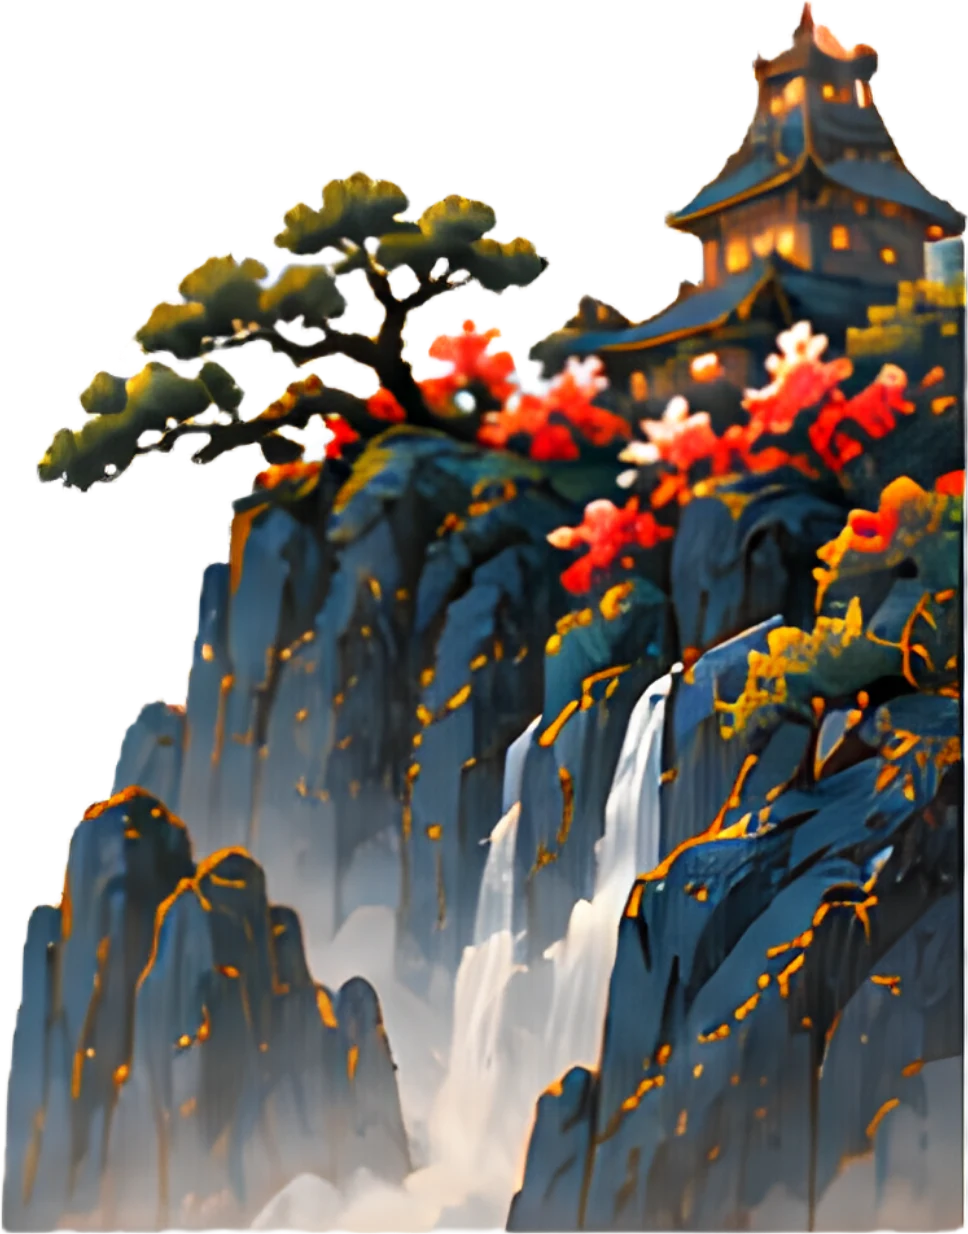
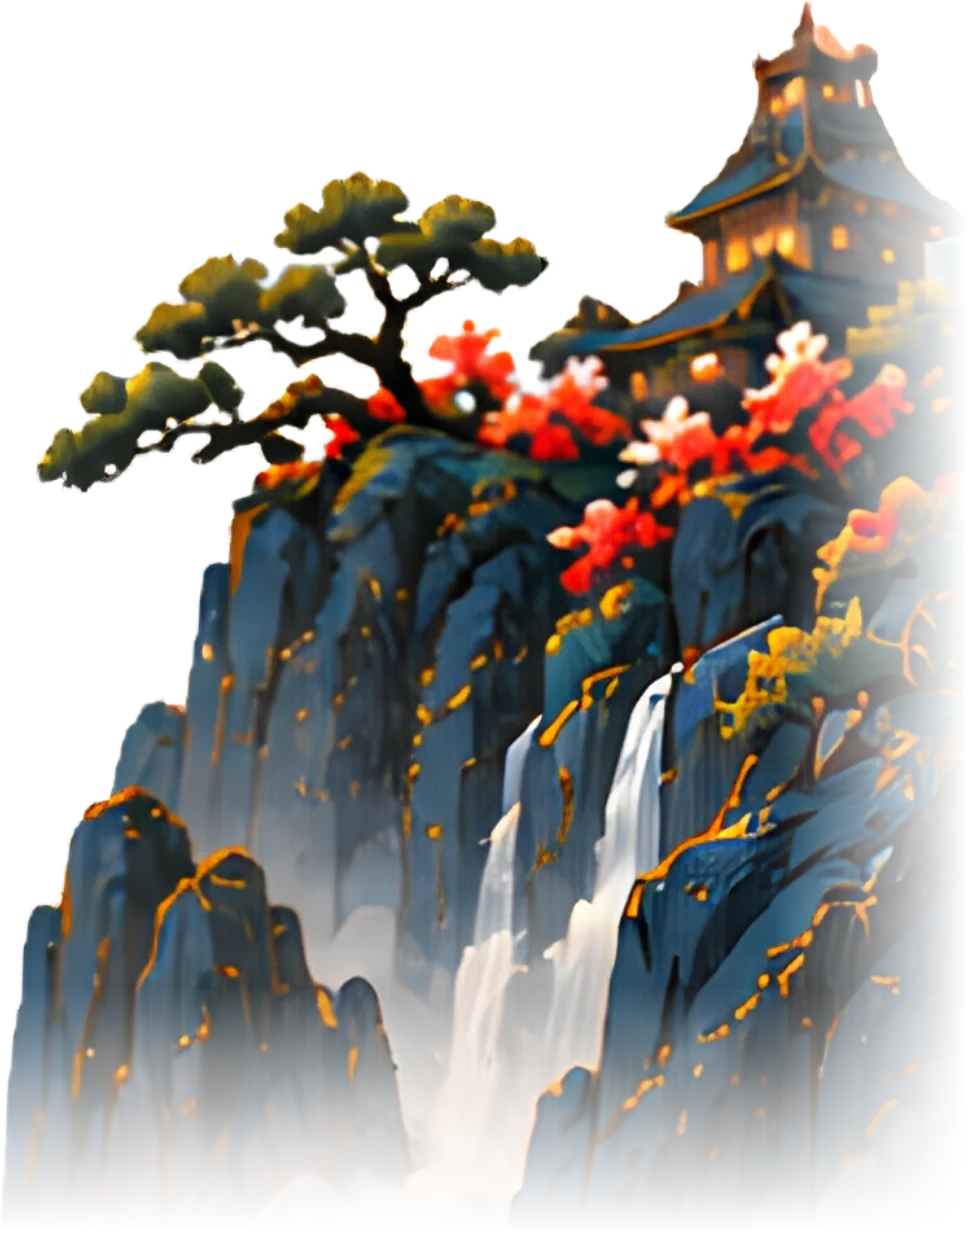
wedding-35: perfect layout alignment from individual assets with sequential entrance animations

Changed region(s): [[0.0, 0.0, 1.0, 1.0]]

diff --git a/resources/views/templates/wedding/wedding-35.blade.php b/resources/views/templates/wedding/wedding-35.blade.php
@@ -284,7 +284,7 @@
             animation: petalsDrift 7s ease-in-out infinite;
         }
 
-        /* Custom scrollbar */
+/* Custom scrollbar */
         ::-webkit-scrollbar {
             width: 5px;
         }
@@ -307,47 +307,145 @@
         <!-- ========================================== -->
         <section id="cover-screen" class="fixed inset-0 z-50 flex flex-col justify-between max-w-[460px] mx-auto bg-[#172635] transition-transform duration-1000 ease-in-out overflow-hidden shadow-2xl">
             <!-- Artwork scene (682:1024) composed from individual assets in wedding-new-2 -->
-            <div class="absolute top-0 left-1/2 -translate-x-1/2 h-full pointer-events-none select-none overflow-hidden" style="width:max(100%, 66.6dvh);background:radial-gradient(ellipse at 50% 30%,#2a3b55 0%,#1b2740 45%,#141d30 100%);">
+            <div id="w35-scene" class="absolute top-0 left-1/2 -translate-x-1/2 h-full pointer-events-none select-none overflow-hidden" style="width:max(100%, 66.6dvh);background:radial-gradient(ellipse at 50% 30%,#2a3b55 0%,#1b2740 45%,#141d30 100%);">
+                <!-- Distant night stars -->
                 <div class="absolute inset-0" style="background-image:radial-gradient(1px 1px at 12% 8%,#fff,transparent),radial-gradient(1px 1px at 30% 4%,#fff,transparent),radial-gradient(1.5px 1.5px at 58% 6%,#f5e3b0,transparent),radial-gradient(1px 1px at 72% 3%,#fff,transparent),radial-gradient(1px 1px at 88% 10%,#fff,transparent),radial-gradient(1.5px 1.5px at 94% 22%,#fff,transparent),radial-gradient(1px 1px at 8% 22%,#fff,transparent),radial-gradient(1px 1px at 46% 2%,#fff,transparent),radial-gradient(1px 1px at 82% 28%,#f5e3b0,transparent);"></div>
-                <img src="{{ $imgDir }}/layers/moon.webp" alt="" class="absolute max-w-none" style="left:14%;top:9.5%;width:72%;filter:drop-shadow(0 0 30px rgba(255,236,190,.45));"/>
-                <img src="{{ $imgDir }}/layers/cloud-b.webp" alt="" class="absolute max-w-none" style="left:2%;top:24%;width:40%;transform:scaleX(-1);opacity:.95;"/>
-                <img src="{{ $imgDir }}/layers/cloud-b.webp" alt="" class="absolute max-w-none" style="left:74%;top:13%;width:36%;"/>
-                <img src="{{ $imgDir }}/layers/cloud-a.webp" alt="" class="absolute max-w-none" style="left:72%;top:28%;width:36%;width:34%;"/>
-                <img src="{{ $imgDir }}/layers/mountains.webp" alt="" class="absolute max-w-none" style="left:-4%;top:50%;width:108%;-webkit-mask-image:radial-gradient(ellipse 50% 50% at 50% 50%,#000 60%,transparent 100%);mask-image:radial-gradient(ellipse 50% 50% at 50% 50%,#000 60%,transparent 100%);"/>
-                <img src="{{ $imgDir }}/layers/cliff-pagoda.webp" alt="" class="absolute max-w-none" style="left:16%;top:57%;width:20%;-webkit-mask-image:radial-gradient(ellipse 50% 50% at 50% 50%,#000 60%,transparent 100%);mask-image:radial-gradient(ellipse 50% 50% at 50% 50%,#000 60%,transparent 100%);"/>
-                <img src="{{ $imgDir }}/layers/pagoda.webp" alt="" class="absolute max-w-none" style="left:60%;top:40%;width:52%;-webkit-mask-image:linear-gradient(90deg,transparent 0%,#000 30%);mask-image:linear-gradient(90deg,transparent 0%,#000 30%);"/>
-                <img src="{{ $imgDir }}/layers/waterfall.webp" alt="" class="absolute max-w-none" style="left:46%;top:62%;width:50%;-webkit-mask-image:radial-gradient(ellipse 50% 50% at 50% 50%,#000 60%,transparent 100%);mask-image:radial-gradient(ellipse 50% 50% at 50% 50%,#000 60%,transparent 100%);"/>
-                <img src="{{ $imgDir }}/layers/rocks.webp" alt="" class="absolute max-w-none" style="left:54%;top:70%;width:50%;"/>
-                <img src="{{ $imgDir }}/layers/pine.webp" alt="" class="absolute max-w-none" style="left:26%;top:66%;width:32%;"/>
-                <img src="{{ $imgDir }}/layers/waves.webp" alt="" class="absolute max-w-none" style="left:40%;top:74%;width:70%;opacity:.95;"/>
-                <img src="{{ $imgDir }}/layers/rail-plain.webp" alt="" class="absolute max-w-none" style="left:30%;top:70%;width:48%;transform:rotate(6deg);"/>
-                <img src="{{ $imgDir }}/layers/rail-flower-r.webp" alt="" class="absolute max-w-none" style="left:58%;top:76%;width:46%;transform:rotate(6deg);"/>
-                <img src="{{ $imgDir }}/layers/rail-flower-l.webp" alt="" class="absolute max-w-none" style="left:14%;top:68%;width:44%;transform:rotate(6deg);"/>
-                <img src="{{ $imgDir }}/layers/cloud-a.webp" alt="" class="absolute max-w-none" style="left:-10%;top:-1%;width:52%;"/>
-                <img src="{{ $imgDir }}/layers/blossom-top.webp" alt="" class="absolute max-w-none" style="left:-8%;top:0%;width:40%;"/>
-                <img src="{{ $imgDir }}/layers/flower-branch.webp" alt="" class="absolute max-w-none" style="left:-16%;top:34%;width:32%;transform:rotate(-15deg);"/>
-                <img src="{{ $imgDir }}/layers/flower-bush.webp" alt="" class="absolute max-w-none" style="left:-12%;top:64%;width:50%;"/>
-                <img src="{{ $imgDir }}/layers/flower-branch.webp" alt="" class="absolute max-w-none" style="left:-12%;top:70%;width:40%;"/>
-                <img src="{{ $imgDir }}/layers/waves.webp" alt="" class="absolute max-w-none" style="left:-8%;top:85%;width:116%;"/>
-                <img src="{{ $imgDir }}/layers/pendant.webp" alt="" class="absolute max-w-none" style="left:44.5%;top:-1.5%;width:11%;transform-origin:50% 0;animation:pendantSway 5s ease-in-out infinite;"/>
-                <img src="{{ $imgDir }}/layers/crane.webp" alt="" class="absolute max-w-none" style="left:60%;top:3%;width:36%;animation:craneGlide 6s ease-in-out infinite;"/>
-                <img src="{{ $imgDir }}/layers/petals.webp" alt="" class="absolute max-w-none" style="left:10%;top:30%;width:16%;animation:petalsDrift 7s ease-in-out infinite;"/>
-                <img src="{{ $imgDir }}/layers/petals.webp" alt="" class="absolute max-w-none" style="left:62%;top:52%;width:14%;transform:rotate(30deg);opacity:.85;"/>
-                <div class="absolute left-0 right-0 text-center" style="top:22.6%;color:#8B6327;">
-                    <p class="font-serif" style="font-size:2.1dvh;letter-spacing:.12em;color:#3a3a3a;">THE WEDDING OF</p>
-                    <h1 class="font-serif" style="font-size:6.2dvh;line-height:1;margin-top:1.6dvh;font-weight:500;letter-spacing:.02em;">{{ strtoupper($couple['bride']) }}</h1>
-                    <div class="flex items-center justify-center" style="gap:2dvh;margin:.3dvh 0;">
-                        <span style="height:1px;width:13dvh;background:#B8945A;"></span>
-                        <span class="font-serif" style="font-size:4.6dvh;line-height:1;">&amp;</span>
-                        <span style="height:1px;width:13dvh;background:#B8945A;"></span>
+
+                <!-- 1. Giant Luminous Full Moon -->
+                <div class="w35-in w35-zoom" style="animation-delay:0.15s">
+                    <img src="{{ $imgDir }}/layers/moon.webp" alt="Moon" class="absolute max-w-none" style="left:3.5%;top:5%;width:93%;filter:drop-shadow(0 0 35px rgba(255,236,190,.4));"/>
+                </div>
+
+                <!-- 2. Distant Misty Blue Mountains -->
+                <div class="w35-in w35-fade" style="animation-delay:0.4s">
+                    <img src="{{ $imgDir }}/layers/mountains.webp" alt="Mountains" class="absolute max-w-none" style="left:-2%;top:45%;width:104%;"/>
+                </div>
+
+                <!-- 3. Left Midground Cliff & Waterfall -->
+                <div class="w35-in w35-fade" style="animation-delay:0.65s">
+                    <img src="{{ $imgDir }}/layers/cliff-pagoda.webp" alt="Cliff" class="absolute max-w-none" style="left:18%;top:54%;width:25%;"/>
+                </div>
+
+                <!-- 4. Waterfall in Gorge -->
+                <div class="w35-in w35-up" style="animation-delay:0.9s">
+                    <img src="{{ $imgDir }}/layers/waterfall.webp" alt="Waterfall" class="absolute max-w-none" style="left:42%;top:59%;width:48%;"/>
+                </div>
+
+                <!-- 5. Pagoda Temple on Mountain Cliff (Right) -->
+                <div class="w35-in w35-right" style="animation-delay:1.15s">
+                    <img src="{{ $imgDir }}/layers/pagoda.webp" alt="Pagoda" class="absolute max-w-none" style="left:50%;top:34%;width:52%;"/>
+                </div>
+
+                <!-- 6. Pine Tree Branch -->
+                <div class="w35-in w35-up" style="animation-delay:1.4s">
+                    <img src="{{ $imgDir }}/layers/pine.webp" alt="Pine" class="absolute max-w-none" style="left:28%;top:62%;width:42%;"/>
+                </div>
+
+                <!-- 7. Rocks on Right -->
+                <div class="w35-in w35-up" style="animation-delay:1.65s">
+                    <img src="{{ $imgDir }}/layers/rocks.webp" alt="Rocks" class="absolute max-w-none" style="left:54%;top:69%;width:48%;"/>
+                </div>
+
+                <!-- 8. Bridge Railing Segments -->
+                <div class="w35-in w35-up" style="animation-delay:1.9s">
+                    <img src="{{ $imgDir }}/layers/rail-flower-l.webp" alt="Bridge Left" class="absolute max-w-none" style="left:20%;top:68%;width:44%;transform:rotate(9deg);"/>
+                </div>
+                <div class="w35-in w35-up" style="animation-delay:2.05s">
+                    <img src="{{ $imgDir }}/layers/rail-plain.webp" alt="Bridge Mid" class="absolute max-w-none" style="left:44%;top:76%;width:40%;transform:rotate(9deg);"/>
+                </div>
+                <div class="w35-in w35-up" style="animation-delay:2.2s">
+                    <img src="{{ $imgDir }}/layers/rail-flower-r.webp" alt="Bridge Right" class="absolute max-w-none" style="left:64%;top:83%;width:40%;transform:rotate(9deg);"/>
+                </div>
+
+                <!-- 9. Golden Clouds Flanking Moon -->
+                <div class="w35-in w35-left" style="animation-delay:2.4s">
+                    <img src="{{ $imgDir }}/layers/cloud-b.webp" alt="Cloud" class="absolute max-w-none" style="left:-6%;top:26%;width:40%;transform:scaleX(-1);"/>
+                </div>
+                <div class="w35-in w35-right" style="animation-delay:2.55s">
+                    <img src="{{ $imgDir }}/layers/cloud-b.webp" alt="Cloud" class="absolute max-w-none" style="left:72%;top:12%;width:32%;"/>
+                </div>
+                <div class="w35-in w35-right" style="animation-delay:2.7s">
+                    <img src="{{ $imgDir }}/layers/cloud-a.webp" alt="Cloud" class="absolute max-w-none" style="left:76%;top:28%;width:28%;"/>
+                </div>
+                <div class="w35-in w35-left" style="animation-delay:2.85s">
+                    <img src="{{ $imgDir }}/layers/cloud-a.webp" alt="Cloud" class="absolute max-w-none" style="left:-4%;top:-1%;width:48%;"/>
+                </div>
+
+                <!-- 10. Cascading Cherry Blossoms (Top & Bottom Left) -->
+                <div class="w35-in w35-left" style="animation-delay:3.0s">
+                    <img src="{{ $imgDir }}/layers/blossom-top.webp" alt="Blossoms Top" class="absolute max-w-none" style="left:-6%;top:-1%;width:44%;"/>
+                </div>
+                <div class="w35-in w35-left" style="animation-delay:3.15s">
+                    <img src="{{ $imgDir }}/layers/flower-branch.webp" alt="Blossoms Mid" class="absolute max-w-none" style="left:-12%;top:24%;width:38%;transform:rotate(-15deg);"/>
+                </div>
+                <div class="w35-in w35-left" style="animation-delay:3.3s">
+                    <img src="{{ $imgDir }}/layers/flower-bush.webp" alt="Flowers Bottom" class="absolute max-w-none" style="left:-12%;top:58%;width:54%;"/>
+                </div>
+                <div class="w35-in w35-left" style="animation-delay:3.45s">
+                    <img src="{{ $imgDir }}/layers/flower-branch.webp" alt="Flowers Lower" class="absolute max-w-none" style="left:-10%;top:68%;width:42%;"/>
+                </div>
+
+                <!-- 11. Swirling Blue Cloud Waves at Base -->
+                <div class="w35-in w35-up" style="animation-delay:3.6s">
+                    <img src="{{ $imgDir }}/layers/waves.webp" alt="Waves Left" class="absolute max-w-none" style="left:-10%;top:80%;width:80%;"/>
+                </div>
+                <div class="w35-in w35-up" style="animation-delay:3.75s">
+                    <img src="{{ $imgDir }}/layers/waves.webp" alt="Waves Mid" class="absolute max-w-none" style="left:18%;top:85%;width:75%;"/>
+                </div>
+                <div class="w35-in w35-up" style="animation-delay:3.9s">
+                    <img src="{{ $imgDir }}/layers/waves.webp" alt="Waves Right" class="absolute max-w-none" style="left:46%;top:83%;width:68%;transform:scaleX(-1);"/>
+                </div>
+
+                <!-- 12. Hanging Gold Pendant (Top Center) -->
+                <div class="w35-in w35-down" style="animation-delay:4.05s">
+                    <img src="{{ $imgDir }}/layers/pendant.webp" alt="Pendant" class="absolute max-w-none animate-pendant" style="left:43.5%;top:-1%;width:13%;transform-origin:50% 0;"/>
+                </div>
+
+                <!-- 13. Flying White Red-Crowned Crane (Top Right) -->
+                <div class="w35-in w35-crane-in" style="animation-delay:4.2s">
+                    <img src="{{ $imgDir }}/layers/crane.webp" alt="Crane" class="absolute max-w-none animate-crane" style="left:61%;top:4%;width:33%;"/>
+                </div>
+
+                <!-- 14. Drifting Flower Petals -->
+                <div class="w35-in w35-fade" style="animation-delay:4.35s">
+                    <img src="{{ $imgDir }}/layers/petals.webp" alt="Petals" class="absolute max-w-none animate-petals" style="left:10%;top:26%;width:18%;"/>
+                </div>
+                <div class="w35-in w35-fade" style="animation-delay:4.5s">
+                    <img src="{{ $imgDir }}/layers/petals.webp" alt="Petals" class="absolute max-w-none" style="left:62%;top:52%;width:14%;transform:rotate(30deg);opacity:.85;"/>
+                </div>
+
+                <!-- 15. Center Typography on the Moon -->
+                <div class="absolute left-0 right-0 text-center w35-in w35-text-in select-none" style="top:22.5%;color:#7D5827;animation-delay:4.7s">
+                    <p class="font-cinzel text-[10px] sm:text-[11px] font-semibold uppercase tracking-[0.35em] text-[#7D5827] drop-shadow-[0_1px_2px_rgba(255,255,255,0.7)] mb-2">
+                        THE WEDDING OF
+                    </p>
+
+                    <h1 class="font-cinzel text-3xl sm:text-4xl font-bold tracking-[0.16em] uppercase text-[#6B471C] drop-shadow-[0_2px_4px_rgba(255,255,255,0.7)] leading-none">
+                        {{ $couple['bride'] }}
+                    </h1>
+
+                    <div class="my-0.5 sm:my-1 flex items-center justify-center gap-3">
+                        <span class="h-[1px] w-8 sm:w-12 bg-[#8A6126]/40"></span>
+                        <span class="font-serif italic text-2xl sm:text-3xl font-normal text-[#8A6126] drop-shadow-[0_1px_2px_rgba(255,255,255,0.6)]">&amp;</span>
+                        <span class="h-[1px] w-8 sm:w-12 bg-[#8A6126]/40"></span>
                     </div>
-                    <h2 class="font-serif" style="font-size:6.2dvh;line-height:1;font-weight:500;letter-spacing:.02em;">{{ strtoupper($couple['groom']) }}</h2>
-                    <p class="font-serif" style="font-size:2.2dvh;letter-spacing:.12em;margin-top:2.6dvh;color:#3a3a3a;">21 . 12 . 2026</p>
+
+                    <h2 class="font-cinzel text-3xl sm:text-4xl font-bold tracking-[0.16em] uppercase text-[#6B471C] drop-shadow-[0_2px_4px_rgba(255,255,255,0.7)] leading-none">
+                        {{ $couple['groom'] }}
+                    </h2>
+
+                    <div class="mt-2.5 sm:mt-3.5 flex items-center justify-center gap-3">
+                        <span class="h-[1px] w-6 sm:w-8 bg-[#8A6126]/40"></span>
+                        <p class="font-cinzel text-[11px] sm:text-xs font-semibold tracking-[0.28em] text-[#7D5827] drop-shadow-[0_1px_2px_rgba(255,255,255,0.7)]">
+                            21 . 12 . 2026
+                        </p>
+                        <span class="h-[1px] w-6 sm:w-8 bg-[#8A6126]/40"></span>
+                    </div>
                 </div>
             </div>
 
             <!-- Bottom Guest Greeting & Open Button - Positioned over swirling blue wave clouds -->
-            <div class="relative z-20 mt-auto px-6 pb-6 sm:pb-8 text-center flex flex-col items-center">
+            <div class="relative z-20 mt-auto px-6 pb-6 sm:pb-8 text-center flex flex-col items-center w35-cta">
                 <!-- Recipient Pill (frosted midnight glass with gold trim) -->
                 <div class="w-full max-w-[270px] bg-[#142330]/85 backdrop-blur-md border border-[#C5A059]/45 rounded-full py-2 px-4 mb-3 shadow-[0_8px_20px_rgba(0,0,0,0.35)]">
                     <p class="text-[9px] uppercase tracking-wider text-[#DFBF77] font-cinzel font-medium">Kepada Yth. Tamu Undangan:</p>
